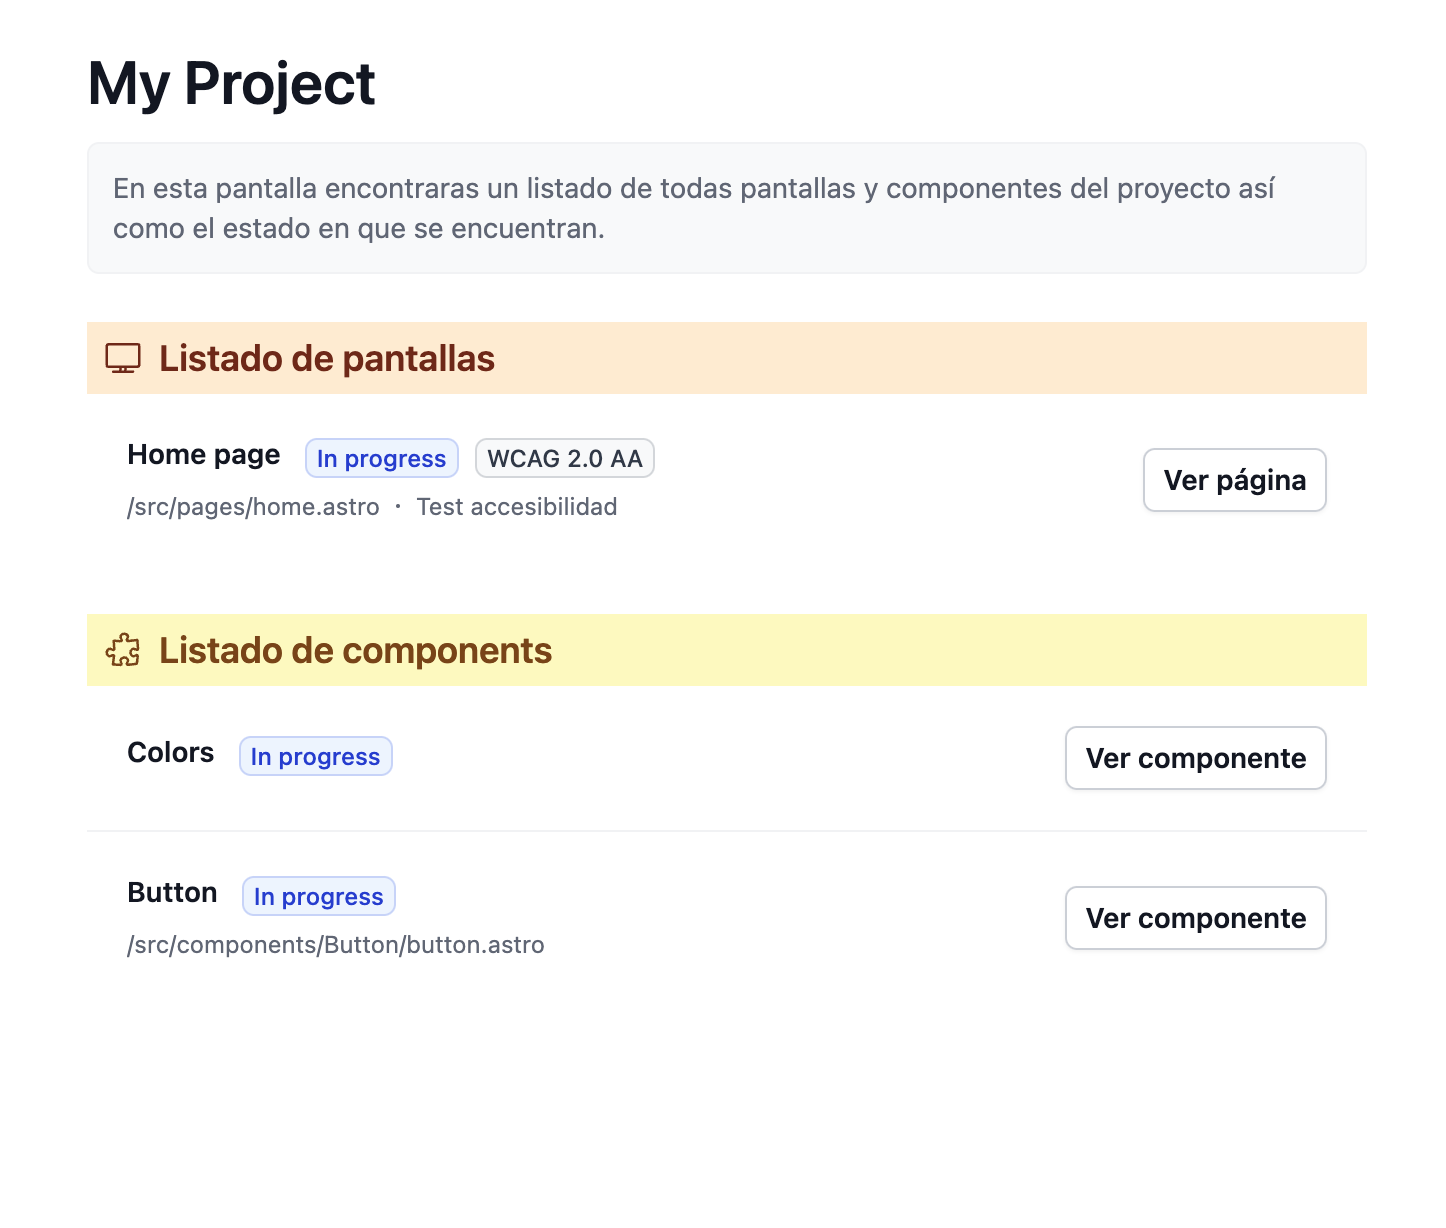
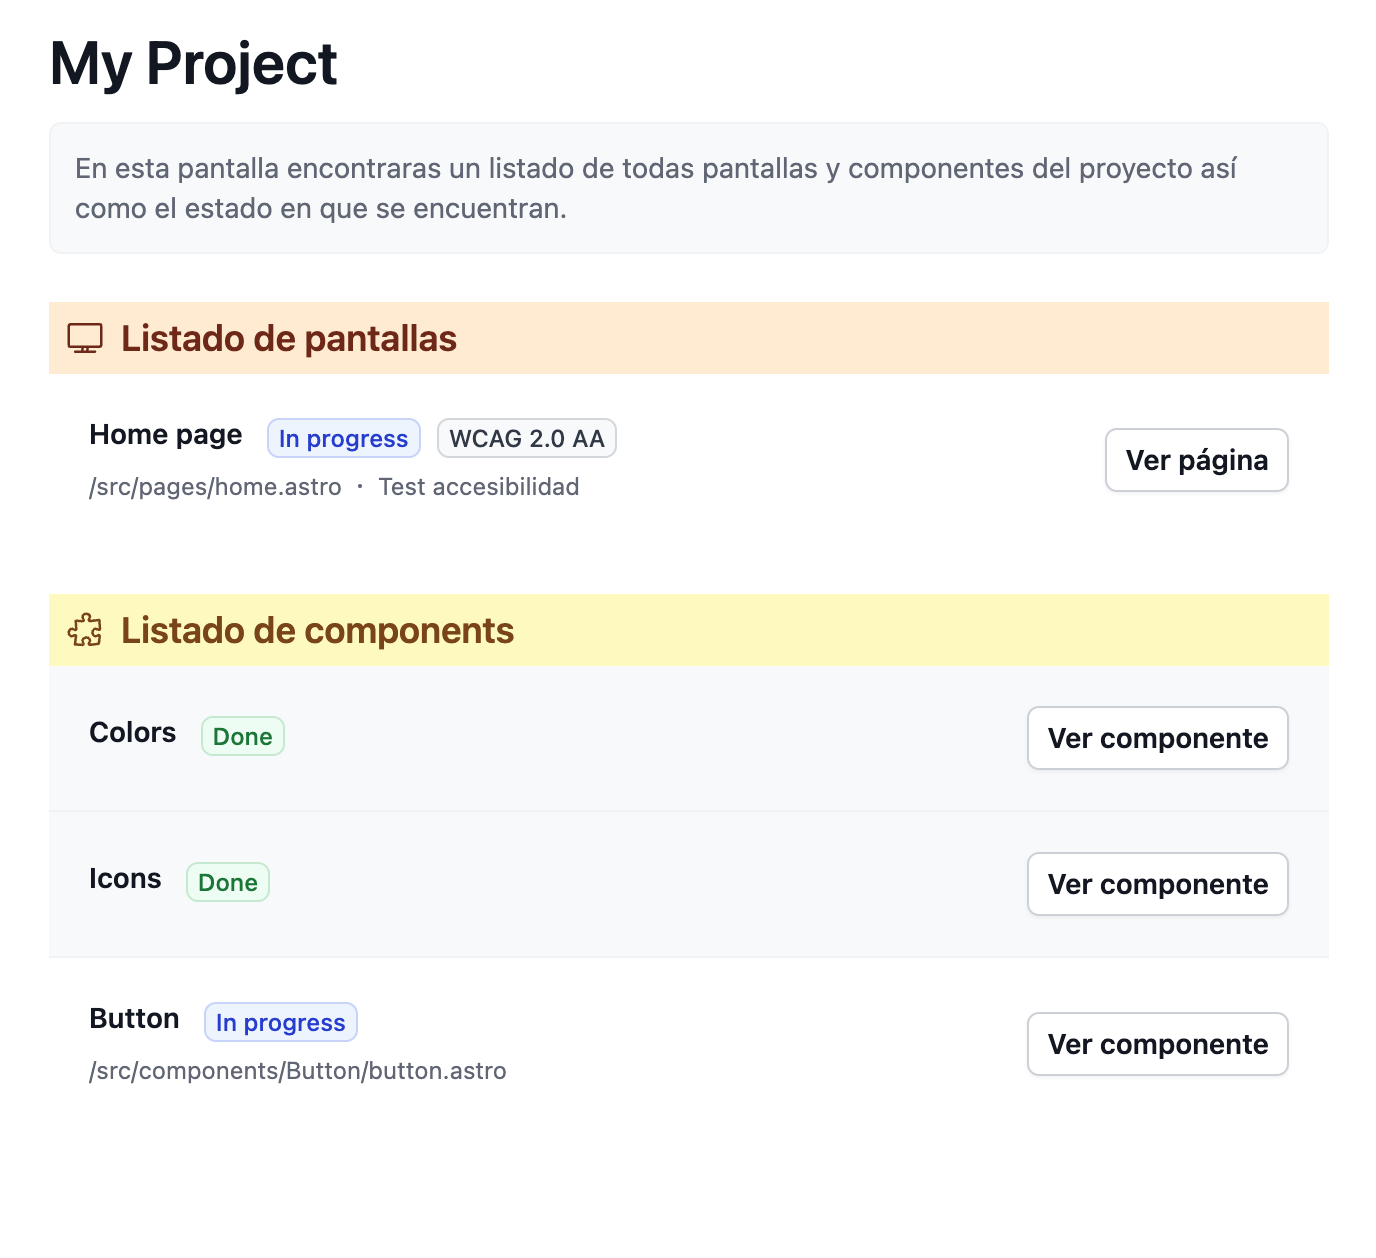
change README.md

diff --git a/README.md b/README.md
@@ -20,18 +20,16 @@ npm create astro@latest -- --template albertesc/astro-architecture
 
 All commands are run from the root of the project, from a terminal:
 
-| Command                   | Action                                                                             |
-| :------------------------ | :--------------------------------------------------------------------------------- |
-| `npm install`             | Installs dependencies                                                              |
-| `npm run dev`             | Starts local dev server at `localhost:4321`                                        |
-| `npm run dev:host`        | Starts local dev server at `localhost:4321` with host `http://192.168.1.136:4321/` |
-| `npm run build`           | Build your production site to `./dist/`                                            |
-| `npm run build:test`      | Build your production site to `./dist/` with accessibility test                    |
-| `npm run preview`         | Preview your build locally, before deploying                                       |
-| `npm run astro ...`       | Run CLI commands like `astro add`, `astro check`                                   |
-| `npm run astro -- --help` | Get help using the Astro CLI                                                       |
-| `npm run test`            | Accessibility testing **(Required for generating test reports)**                   |
-| `npm run create:icons`    | Create library icons from folder `public/assets/icons`                             |
+| Command                   | Action                                                             |
+| :------------------------ | :----------------------------------------------------------------- |
+| `npm install`             | Installs dependencies                                              |
+| `npm run dev`             | Starts local dev server at `localhost:4321`                        |
+| `npm run dev:host`        | Starts local dev server at `localhost:4321` with host IP           |
+| `npm run build`           | Build your production site to `./dist/`                            |
+| `npm run build:test`      | Build your production site to `./dist/` with accessibility test    |
+| `npm run preview`         | Preview your build locally, before deploying                       |
+| `npm run test`            | Accessibility testing **(Required for generating test reports)**   |
+| `npm run create:icons`    | Create library icons from folder `public/assets/icons`             |
 
 ## Configuration File
 
@@ -61,7 +59,11 @@ The configuration file is located in the folder `/src/data/config.json`. In this
 
 ![index-page](https://github.com/albertesc/astro-architecture/blob/main/index-page.png)
 
-On the project's main screen, you will find a list that will serve as a guide to see the status of your project. In case you want to modify this information, you will find all the data in the folder `/srd/data/`. There are two `.json` documents where you can modify the state of your components and screens.
+On the project's main screen, you will find a list that will serve as a guide to see the status of your project. In case you want to modify this information, you will find all the data in the folder `src/data/`. There are `.json` documents where you can modify the state of your components, screens and more.
+
+### Add components
+
+Change this file from src/data/components.json
 
 ```json
 {
@@ -70,7 +72,13 @@ On the project's main screen, you will find a list that will serve as a guide to
             "name": "Colors",
             "path": "",
             "docs": "docs/colors",
-            "status": "in-progress"
+            "status": "done"
+        },
+        {
+            "name": "Icons",
+            "path": "",
+            "docs": "docs/icons",
+            "status": "done"
         },
         {
             "name": "Button",
@@ -81,6 +89,10 @@ On the project's main screen, you will find a list that will serve as a guide to
     ]
 }
 ```
+
+### Add pages
+
+Change this file from src/data/pages.json
 
 ```json
 {
@@ -97,24 +109,39 @@ On the project's main screen, you will find a list that will serve as a guide to
 }
 ```
 
+### Add project colors
+
+Change this file from src/data/colors.json
+
+```json
+{
+    "colors": {
+        "primary": "#D0315D",
+        "alternative": "#5E48E8"
+    }
+}
+```
+
 ## Icon component
 
-This architecture provides a simple way to create icons using the `<Icon />` component. To add icons, simply place the SVG files in the `/public/assets/icons/` folder and run the command:
+This architecture provides a simple way to create icons using the `Icon` component. To add icons, simply place the SVG files in the `/public/assets/icons/` folder and run the command:
 
 ```bash
 npm run create:icons
 ```
 
-Now you can use the `<Icon name="icon-name" />` component.
+You can use the `Icon` component by importing it from `@components/Icon/icon.astro` and rendering it as a normal Astro Component.
 
 ```html
-<!-- 
-icon-name corresponds to the name of the .svg file you have added. 
-ex: icon-name.svg 
--->
-<Icon name="icon-name" />
+---
+import Icon from '@components/Icon/icon.astro'
+---
+
+<!-- Embed the contents of the `/public/assets/icons/logo.svg` file -->
+<Icon name="logo" />
 ```
-**Icon props**
+
+**Props**
 
 | Property | Type    | Required | Description                                                                |
 |----------|---------|----------|----------------------------------------------------------------------------|
@@ -124,6 +151,10 @@ ex: icon-name.svg
 | size     | number  | No       | The size of the icon. It is used if `width` and `height` are not provided. |
 
 ```html
+---
+import Icon from '@components/Icon/icon.astro'
+---
+
 <Icon name="icon-name" width={16} height={16} />
 <Icon name="icon-name" size={16} />
 ```
